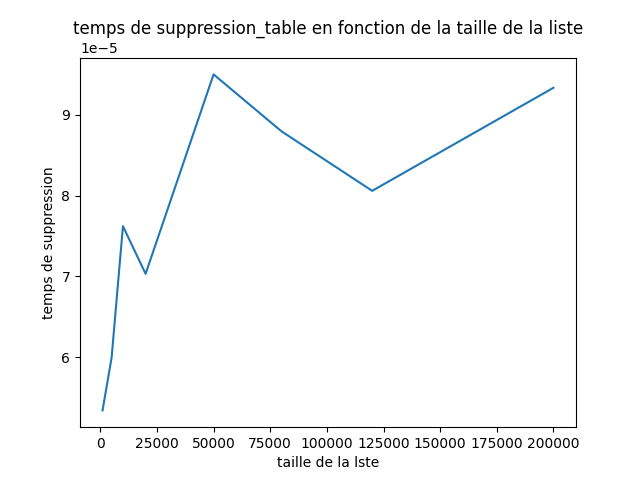
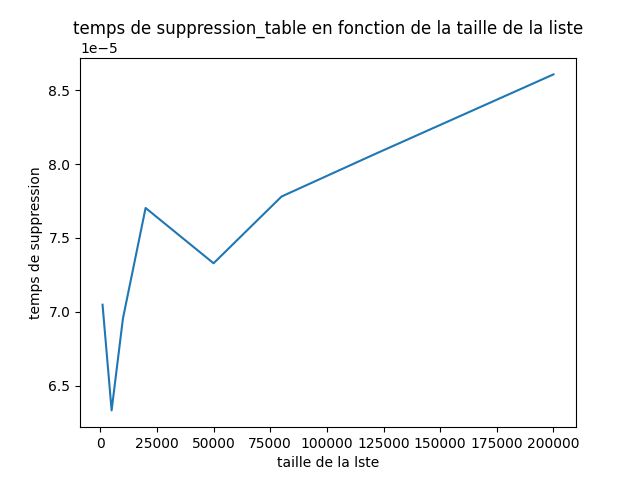
maj graphs

diff --git a/algos.py b/algos.py
@@ -433,7 +433,7 @@ def moyenne_temps_suppression_table(list_of_sizes):
             list_of_values = st.treat_from_file("cles_alea/jeu_"+str(i)+"_nb_cles_"+str(size)+".txt")
             heap = MinHeapTable()
             heap.construction(list_of_values)
-            for j in range(100):
+            for j in range(500):
                 start_time = time.perf_counter()
                 heap._suppmin()
                 end_time = time.perf_counter()
@@ -458,7 +458,7 @@ def moyenne_temps_suppression_tree(list_of_sizes):
             list_of_values = st.treat_from_file("cles_alea/jeu_"+str(i)+"_nb_cles_"+str(size)+".txt")
             heap = MinHeapBinaryTree()
             heap.construction(list_of_values)
-            for j in range(100):
+            for j in range(500):
                 start_time = time.perf_counter()
                 heap.suppmin()
                 end_time = time.perf_counter()
